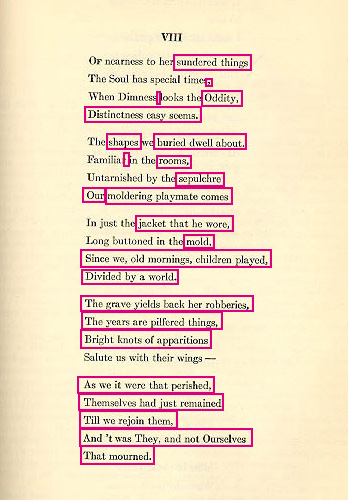
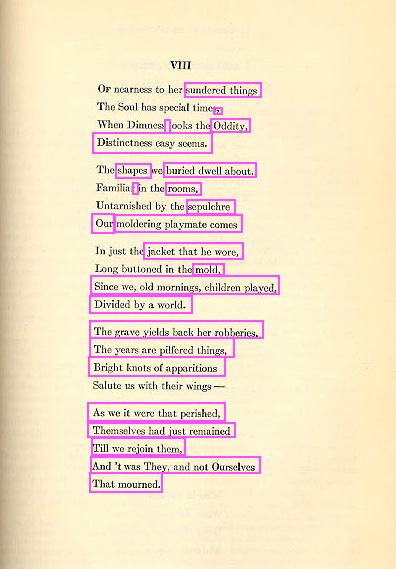
Fixing color and image map for am.

Changed region(s): [[0.2011, 0.06, 0.8046, 0.93], [0.0, 0.0, 0.0287, 1.0]]

diff --git a/Web Files/1602.html b/Web Files/1602.html
@@ -217,33 +217,33 @@
 	</div>
 <!--AM VERSION-->
 	<div id="amMap">
-        <img src="img/1602/1602amMap.jpg" alt="" usemap="#fs1602amMap" />
-        <map name="fs1602amMap" id="fs1602amMap">
-        	<area alt="Original Dickinson: Of nearness to her Sundered Things" title="Original Dickinson: Of nearness to her Sundered Things" href="#fs1602amMap" shape="rect" coords="176,53,252,72" />
-        	<area alt="Original Dickinson: The Soul has special times&#8212;" title="Original Dickinson: The Soul has special times&#8212;" href="#fs1602amMap" shape="rect" coords="205,76,214,89" />
-        	<area alt="Original Dickinson: When Dimness&#8212;looks the Oddity&#8212;" title="Original Dickinson: When Dimness&#8212;looks the Oddity&#8212;" href="#fs1602amMap" shape="rect" coords="157,92,160,106" />
-        	<area alt="Original Dickinson: When Dimness&#8212;looks the Oddity&#8212;" title="Original Dickinson: When Dimness&#8212;looks the Oddity&#8212;" href="#fs1602amMap" shape="rect" coords="204,91,245,108" />
-        	<area alt="Original Dickinson: Distinctness&#8212;easy&#8212;seems&#8212;" title="Original Dickinson: Distinctness&#8212;easy&#8212;seems&#8212;" href="#fs1602amMap" shape="rect" coords="87,104,203,122" />
-        	<area alt="Original Dickinson: The Shapes we buried, dwell about," title="Original Dickinson: The Shapes we buried, dwell about," href="#fs1602amMap" shape="rect" coords="108,133,140,151" />
-        	<area alt="Original Dickinson: The Shapes we buried, dwell about," title="Original Dickinson: The Shapes we buried, dwell about," href="#fs1602amMap" shape="rect" coords="155,134,249,149" />
-        	<area alt="Original Dickinson: Familiar, in the Rooms&#8212;" title="Original Dickinson: Familiar, in the Rooms&#8212;" href="#fs1602amMap" shape="rect" coords="123,155,127,166" />
-        	<area alt="Original Dickinson: Familiar, in the Rooms&#8212;" title="Original Dickinson: Familiar, in the Rooms&#8212;" href="#fs1602amMap" shape="rect" coords="157,158,192,169" />
-        	<area alt="Original Dickinson: Untarnished by the Sepulchre," title="Original Dickinson: Untarnished by the Sepulchre," href="#fs1602amMap" shape="rect" coords="177,171,225,186" />
-        	<area alt="Original Dickinson: The Mouldering Playmate comes&#8212; OR Our Mouldering Playmate comes&#8212;" title="Original Dickinson: The Mouldering Playmate comes&#8212; OR Our Mouldering Playmate comes&#8212;" href="#fs1602amMap" shape="rect" coords="84,186,106,203" />
-        	<area alt="Original Dickinson: The Mouldering Playmate comes&#8212; OR Our Mouldering Playmate comes&#8212;" title="Original Dickinson: The Mouldering Playmate comes&#8212; OR Our Mouldering Playmate comes&#8212;" href="#fs1602amMap" shape="rect" coords="106,185,235,205" />
-        	<area alt="Original Dickinson: In just the Jacket that he wore&#8212;" title="Original Dickinson: In just the Jacket that he wore&#8212;" href="#fs1602amMap" shape="rect" coords="137,216,235,230" />
-        	<area alt="Original Dickinson: Long buttoned in the Mold" title="Original Dickinson: Long buttoned in the Mold" href="#fs1602amMap" shape="rect" coords="187,237,218,246" />
-        	<area alt="Original Dickinson: Since we&#8212;old mornings, Children&#8212;played&#8212;" title="Original Dickinson: Since we&#8212;old mornings, Children&#8212;played&#8212;" href="#fs1602amMap" shape="rect" coords="81,249,272,269" />
-        	<area alt="Original Dickinson: Divided by a world&#8212;" title="Original Dickinson: Divided by a world&#8212;" href="#fs1602amMap" shape="rect" coords="80,267,181,284" />
-        	<area alt="Original Dickinson: The Grave yields back her Robberies&#8212;" title="Original Dickinson: The Grave yields back her Robberies&#8212;" href="#fs1602amMap" shape="rect" coords="81,295,258,311" />
-        	<area alt="Original Dickinson: The Years, our pilfered Things&#8212;" title="Original Dickinson: The Years, our pilfered Things&#8212;" href="#fs1602amMap" shape="rect" coords="81,312,222,327" />
-        	<area alt="Original Dickinson: Bright Knots of Apparitions" title="Original Dickinson: Bright Knots of Apparitions" href="#fs1602amMap" shape="rect" coords="82,331,210,347" />
-        	<area alt="Original Dickinson: As we&#8212;it were&#8212;that perished&#8212;" title="Original Dickinson: As we&#8212;it were&#8212;that perished&#8212;" href="#fs1602amMap" shape="rect" coords="79,376,216,393" />
-        	<area alt="Original Dickinson: Themself&#8212;had just remained till we rejoin them&#8212;" title="Original Dickinson: Themself&#8212;had just remained till we rejoin them&#8212;" href="#fs1602amMap" shape="rect" coords="80,395,225,410" />
-        	<area alt="Original Dickinson: Themself&#8212;had just remained till we rejoin them&#8212;" title="Original Dickinson: Themself&#8212;had just remained till we rejoin them&#8212;" href="#fs1602amMap" shape="rect" coords="80,411,177,429" />
-        	<area alt="Original Dickinson: And 'twas they, and not ourself" title="Original Dickinson: And 'twas they, and not ourself" href="#fs1602amMap" shape="rect" coords="79,428,251,442" />
-        	<area alt="Original Dickinson: That mourned." title="Original Dickinson: That mourned." href="#fs1602amMap" shape="rect" coords="82,447,151,463" />
-        </map>
+		<img src="img/1602/1602amMap.jpg" alt="" usemap="#fs1602amMap" />
+		<map name="fs1602amMap" id="fs1602amMap">
+			<area alt="Original Dickinson: Of nearness to her Sundered Things" title="Original Dickinson: Of nearness to her Sundered Things" href="#fs1602amMap" shape="rect" coords="185,83,261,96" />
+			<area alt="Original Dickinson: The Soul has special times&#8212;" title="Original Dickinson: The Soul has special times&#8212;" href="#fs1602amMap" shape="rect" coords="213,106,221,114" />
+			<area alt="Original Dickinson: When Dimness&#8212;looks the Oddity&#8212;" title="Original Dickinson: When Dimness&#8212;looks the Oddity&#8212;" href="#fs1602amMap" shape="rect" coords="166,119,172,132" />
+			<area alt="Original Dickinson: When Dimness&#8212;looks the Oddity&#8212;" title="Original Dickinson: When Dimness&#8212;looks the Oddity&#8212;" href="#fs1602amMap" shape="rect" coords="212,119,250,132" />
+			<area alt="Original Dickinson: Distinctness&#8212;easy&#8212;seems&#8212;" title="Original Dickinson: Distinctness&#8212;easy&#8212;seems&#8212;" href="#fs1602amMap" shape="rect" coords="94,133,213,153" />
+			<area alt="Original Dickinson: The Shapes we buried, dwell about," title="Original Dickinson: The Shapes we buried, dwell about," href="#fs1602amMap" shape="rect" coords="117,164,152,178" />
+			<area alt="Original Dickinson: The Shapes we buried, dwell about," title="Original Dickinson: The Shapes we buried, dwell about," href="#fs1602amMap" shape="rect" coords="165,163,257,177" />
+			<area alt="Original Dickinson: Familiar, in the Rooms&#8212;" title="Original Dickinson: Familiar, in the Rooms&#8212;" href="#fs1602amMap" shape="rect" coords="133,183,139,194" />
+			<area alt="Original Dickinson: Familiar, in the Rooms&#8212;" title="Original Dickinson: Familiar, in the Rooms&#8212;" href="#fs1602amMap" shape="rect" coords="166,183,202,195" />
+			<area alt="Original Dickinson: Untarnished by the Sepulchre," title="Original Dickinson: Untarnished by the Sepulchre," href="#fs1602amMap" shape="rect" coords="188,200,236,213" />
+			<area alt="Original Dickinson: The Mouldering Playmate comes&#8212; OR Our Mouldering Playmate comes&#8212;" title="Original Dickinson: The Mouldering Playmate comes&#8212; OR Our Mouldering Playmate comes&#8212;" href="#fs1602amMap" shape="rect" coords="92,214,116,233" />
+			<area alt="Original Dickinson: The Mouldering Playmate comes&#8212; OR Our Mouldering Playmate comes&#8212;" title="Original Dickinson: The Mouldering Playmate comes&#8212; OR Our Mouldering Playmate comes&#8212;" href="#fs1602amMap" shape="rect" coords="118,215,244,232" />
+			<area alt="Original Dickinson: In just the Jacket that he wore&#8212;" title="Original Dickinson: In just the Jacket that he wore&#8212;" href="#fs1602amMap" shape="rect" coords="145,243,244,259" />
+			<area alt="Original Dickinson: Long buttoned in the Mold" title="Original Dickinson: Long buttoned in the Mold" href="#fs1602amMap" shape="rect" coords="194,264,225,275" />
+			<area alt="Original Dickinson: Since we&#8212;old mornings, Children&#8212;played&#8212;" title="Original Dickinson: Since we&#8212;old mornings, Children&#8212;played&#8212;" href="#fs1602amMap" shape="rect" coords="92,276,280,294" />
+			<area alt="Original Dickinson: Divided by a world&#8212;" title="Original Dickinson: Divided by a world&#8212;" href="#fs1602amMap" shape="rect" coords="92,296,193,313" />
+			<area alt="Original Dickinson: The Grave yields back her Robberies&#8212;" title="Original Dickinson: The Grave yields back her Robberies&#8212;" href="#fs1602amMap" shape="rect" coords="91,321,264,339" />
+			<area alt="Original Dickinson: The Years, our pilfered Things&#8212;" title="Original Dickinson: The Years, our pilfered Things&#8212;" href="#fs1602amMap" shape="rect" coords="91,338,235,357" />
+			<area alt="Original Dickinson: Bright Knots of Apparitions" title="Original Dickinson: Bright Knots of Apparitions" href="#fs1602amMap" shape="rect" coords="90,357,226,376" />
+			<area alt="Original Dickinson: As we&#8212;it were&#8212;that perished&#8212;" title="Original Dickinson: As we&#8212;it were&#8212;that perished&#8212;" href="#fs1602amMap" shape="rect" coords="89,402,226,420" />
+			<area alt="Original Dickinson: Themself&#8212;had just remained till we rejoin them&#8212;" title="Original Dickinson: Themself&#8212;had just remained till we rejoin them&#8212;" href="#fs1602amMap" shape="rect" coords="90,422,236,437" />
+			<area alt="Original Dickinson: Themself&#8212;had just remained till we rejoin them&#8212;" title="Original Dickinson: Themself&#8212;had just remained till we rejoin them&#8212;" href="#fs1602amMap" shape="rect" coords="92,438,186,455" />
+			<area alt="Original Dickinson: And 'twas they, and not ourself" title="Original Dickinson: And 'twas they, and not ourself" href="#fs1602amMap" shape="rect" coords="92,456,261,473" />
+			<area alt="Original Dickinson: That mourned." title="Original Dickinson: That mourned." href="#fs1602amMap" shape="rect" coords="91,472,163,492" />
+		</map>
 	</div>
 			</div>
          </div>
